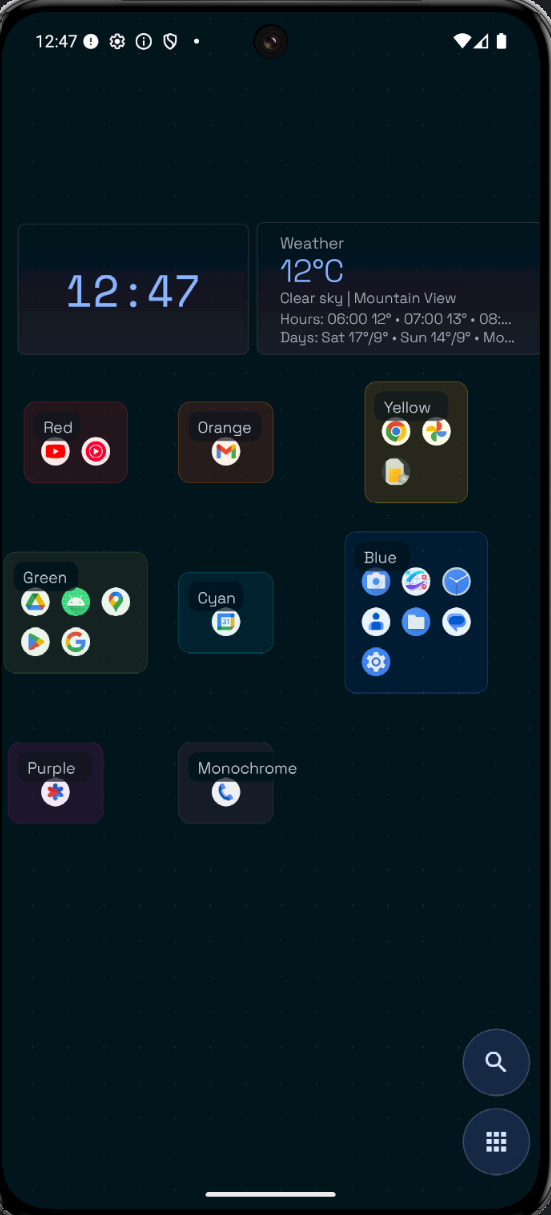
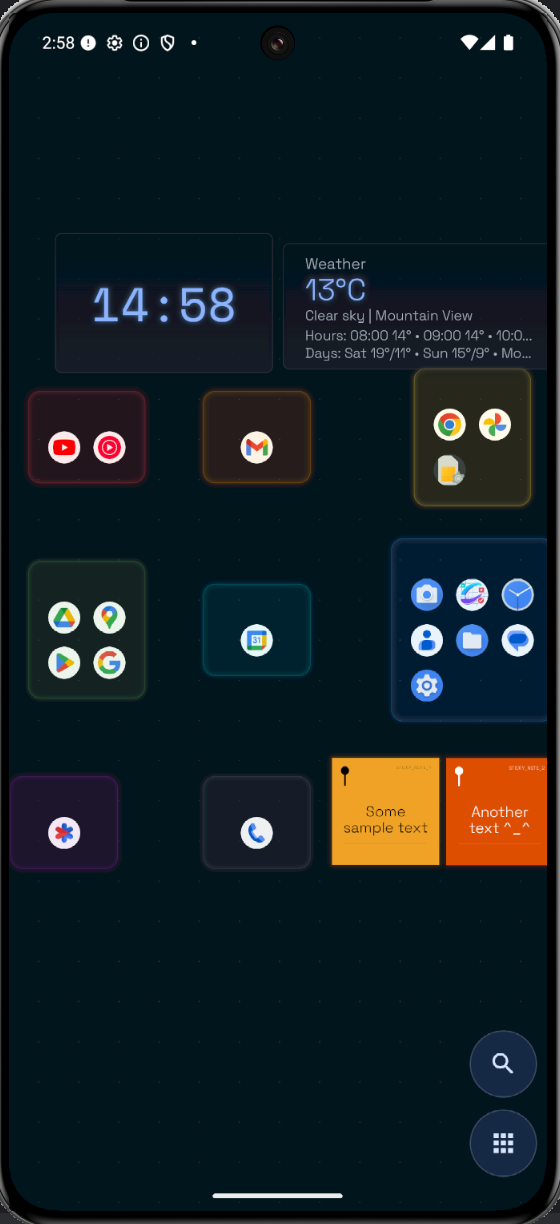
feat: updated readme and sticky notes

diff --git a/feature/launcher/src/main/kotlin/com/darksok/canvaslauncher/feature/launcher/presentation/LauncherRoute.kt b/feature/launcher/src/main/kotlin/com/darksok/canvaslauncher/feature/launcher/presentation/LauncherRoute.kt
@@ -64,6 +64,7 @@ import androidx.compose.ui.geometry.CornerRadius
 import androidx.compose.ui.geometry.Offset
 import androidx.compose.ui.geometry.Size
 import androidx.compose.ui.graphics.Brush
+import androidx.compose.ui.graphics.Color
 import androidx.compose.ui.graphics.drawscope.Stroke
 import androidx.compose.ui.platform.LocalContext
 import androidx.compose.ui.platform.LocalView
@@ -85,6 +86,9 @@ import com.darksok.canvaslauncher.feature.canvas.CanvasBackgroundConfig
 import com.darksok.canvaslauncher.feature.canvas.InfiniteCanvas
 import com.darksok.canvaslauncher.feature.launcher.R
 import dev.chrisbanes.haze.HazeState
+import dev.chrisbanes.haze.HazeStyle
+import dev.chrisbanes.haze.HazeTint
+import dev.chrisbanes.haze.hazeEffect
 import dev.chrisbanes.haze.hazeSource
 import kotlinx.coroutines.flow.collectLatest
 import kotlinx.coroutines.launch
@@ -317,6 +321,7 @@ fun LauncherRoute(
                             MiniMapOverlay(
                                 appPositions = uiState.allAppPositions,
                                 cameraState = uiState.cameraState,
+                                hazeState = hazeState,
                                 modifier = Modifier
                                     .align(Alignment.BottomStart)
                                     .navigationBarsPadding()
@@ -730,68 +735,103 @@ private fun SystemBarsContrastEffect(darkTheme: Boolean) {
 private fun MiniMapOverlay(
     appPositions: List<com.darksok.canvaslauncher.core.model.canvas.WorldPoint>,
     cameraState: com.darksok.canvaslauncher.core.model.canvas.CameraState,
+    hazeState: HazeState?,
     modifier: Modifier = Modifier,
 ) {
     val shape = RoundedCornerShape(14.dp)
+    val blurTint = MaterialTheme.colorScheme.surface.copy(alpha = 0.26f)
+    val hazeStyle = remember(blurTint) {
+        HazeStyle(
+            backgroundColor = Color.Transparent,
+            tint = HazeTint(blurTint),
+            blurRadius = 18.dp,
+            noiseFactor = 0.03f,
+            fallbackTint = HazeTint(blurTint.copy(alpha = 0.40f)),
+        )
+    }
+    val hazeBackdropModifier = if (hazeState != null) {
+        Modifier.hazeEffect(state = hazeState, style = hazeStyle)
+    } else {
+        Modifier.background(blurTint.copy(alpha = 0.44f))
+    }
     Surface(
         shape = shape,
-        color = MaterialTheme.colorScheme.surface.copy(alpha = 0.90f),
+        color = Color.Transparent,
         tonalElevation = 4.dp,
         modifier = modifier
             .size(152.dp)
-            .clip(shape)
-            .border(
-                width = 1.dp,
-                color = MaterialTheme.colorScheme.onSurface.copy(alpha = 0.22f),
-                shape = shape,
-            ),
+            .clip(shape),
     ) {
-        val lineColor = MaterialTheme.colorScheme.primary.copy(alpha = 0.55f)
-        val appColor = MaterialTheme.colorScheme.onSurface.copy(alpha = 0.75f)
-        val userColor = MaterialTheme.colorScheme.primary
-        val viewportColor = MaterialTheme.colorScheme.secondary.copy(alpha = 0.85f)
-
-        Canvas(
-            modifier = Modifier
-                .fillMaxSize()
-                .padding(8.dp),
-        ) {
-            val projection = MiniMapProjector.project(
-                appPositions = appPositions,
-                camera = cameraState,
-                mapWidthPx = size.width,
-                mapHeightPx = size.height,
+        Box(modifier = Modifier.fillMaxSize()) {
+            Box(
+                modifier = Modifier
+                    .fillMaxSize()
+                    .clip(shape)
+                    .then(hazeBackdropModifier),
+            )
+            Box(
+                modifier = Modifier
+                    .fillMaxSize()
+                    .clip(shape)
+                    .background(MaterialTheme.colorScheme.surface.copy(alpha = 0.12f)),
+            )
+            Box(
+                modifier = Modifier
+                    .fillMaxSize()
+                    .border(
+                        width = 1.dp,
+                        color = MaterialTheme.colorScheme.onSurface.copy(alpha = 0.22f),
+                        shape = shape,
+                    ),
             )
 
-            projection.appPoints.forEach { point ->
+            val lineColor = MaterialTheme.colorScheme.primary.copy(alpha = 0.55f)
+            val appColor = MaterialTheme.colorScheme.onSurface.copy(alpha = 0.75f)
+            val userColor = MaterialTheme.colorScheme.primary
+            val viewportColor = MaterialTheme.colorScheme.secondary.copy(alpha = 0.85f)
+
+            Canvas(
+                modifier = Modifier
+                    .fillMaxSize()
+                    .padding(8.dp),
+            ) {
+                val projection = MiniMapProjector.project(
+                    appPositions = appPositions,
+                    camera = cameraState,
+                    mapWidthPx = size.width,
+                    mapHeightPx = size.height,
+                )
+
+                projection.appPoints.forEach { point ->
+                    drawCircle(
+                        color = appColor,
+                        radius = 1.8.dp.toPx(),
+                        center = Offset(point.x, point.y),
+                    )
+                }
+
+                val user = Offset(projection.userPoint.x, projection.userPoint.y)
+                drawLine(lineColor, Offset(user.x, 0f), Offset(user.x, size.height), 1.dp.toPx())
+                drawLine(lineColor, Offset(0f, user.y), Offset(size.width, user.y), 1.dp.toPx())
+
+                val viewport = projection.viewportRect
+                drawRoundRect(
+                    color = viewportColor,
+                    topLeft = Offset(viewport.left, viewport.top),
+                    size = Size(
+                        width = (viewport.right - viewport.left).coerceAtLeast(2.dp.toPx()),
+                        height = (viewport.bottom - viewport.top).coerceAtLeast(2.dp.toPx()),
+                    ),
+                    cornerRadius = CornerRadius(4.dp.toPx(), 4.dp.toPx()),
+                    style = Stroke(width = 1.2.dp.toPx()),
+                )
+
                 drawCircle(
-                    color = appColor,
-                    radius = 1.8.dp.toPx(),
-                    center = Offset(point.x, point.y),
+                    color = userColor,
+                    radius = 3.2.dp.toPx(),
+                    center = user,
                 )
             }
-
-            val user = Offset(projection.userPoint.x, projection.userPoint.y)
-            drawLine(lineColor, Offset(user.x, 0f), Offset(user.x, size.height), 1.dp.toPx())
-            drawLine(lineColor, Offset(0f, user.y), Offset(size.width, user.y), 1.dp.toPx())
-
-            val viewport = projection.viewportRect
-            drawRoundRect(
-                color = viewportColor,
-                topLeft = Offset(viewport.left, viewport.top),
-                size = Size(
-                    width = (viewport.right - viewport.left).coerceAtLeast(2.dp.toPx()),
-                    height = (viewport.bottom - viewport.top).coerceAtLeast(2.dp.toPx()),
-                ),
-                cornerRadius = CornerRadius(4.dp.toPx(), 4.dp.toPx()),
-                style = Stroke(width = 1.2.dp.toPx()),
-            )
-
-            drawCircle(
-                color = userColor,
-                radius = 3.2.dp.toPx(),
-                center = user,
-            )
         }
     }
 }

diff --git a/feature/launcher/src/main/kotlin/com/darksok/canvaslauncher/feature/launcher/presentation/LauncherToolsOverlay.kt b/feature/launcher/src/main/kotlin/com/darksok/canvaslauncher/feature/launcher/presentation/LauncherToolsOverlay.kt
@@ -91,6 +91,7 @@ import androidx.compose.ui.text.withStyle
 import androidx.compose.ui.unit.dp
 import androidx.core.view.ViewCompat
 import androidx.core.view.WindowInsetsCompat
+import com.darksok.canvaslauncher.core.ui.theme.primaryTextGlowShadow
 import com.darksok.canvaslauncher.feature.launcher.R
 import dev.chrisbanes.haze.HazeState
 import dev.chrisbanes.haze.HazeStyle
@@ -1442,6 +1443,7 @@ internal object SearchSuggestionTextFormatter {
                 style = SpanStyle(
                     color = highlightColor,
                     fontWeight = FontWeight.SemiBold,
+                    shadow = primaryTextGlowShadow(highlightColor),
                 ),
             ) {
                 append(suffix)

diff --git a/core/ui/src/main/kotlin/com/darksok/canvaslauncher/core/ui/theme/TextGlow.kt b/core/ui/src/main/kotlin/com/darksok/canvaslauncher/core/ui/theme/TextGlow.kt
@@ -1,0 +1,20 @@
+package com.darksok.canvaslauncher.core.ui.theme
+
+import androidx.compose.ui.geometry.Offset
+import androidx.compose.ui.graphics.Color
+import androidx.compose.ui.graphics.Shadow
+
+fun primaryTextGlowShadow(
+    color: Color,
+    alpha: Float = PRIMARY_TEXT_GLOW_ALPHA,
+    blurRadius: Float = PRIMARY_TEXT_GLOW_RADIUS_PX,
+): Shadow {
+    return Shadow(
+        color = color.copy(alpha = alpha),
+        offset = Offset.Zero,
+        blurRadius = blurRadius,
+    )
+}
+
+private const val PRIMARY_TEXT_GLOW_ALPHA = 0.62f
+private const val PRIMARY_TEXT_GLOW_RADIUS_PX = 10f

diff --git a/README.md b/README.md
@@ -31,6 +31,7 @@
   <img src="docs/readme/screens/mainscreen.png" alt="Home canvas (dark + smart)" width="230" />
   <img src="docs/readme/screens/toolsexpanded.png" alt="Tools panel expanded" width="230" />
   <img src="docs/readme/screens/appsearch.png" alt="Search overlay" width="230" />
+  <img src="docs/readme/screens/minimaoandnotes.png" alt="Minimap" width="230" />
 </p>
 
 <p align="center">
